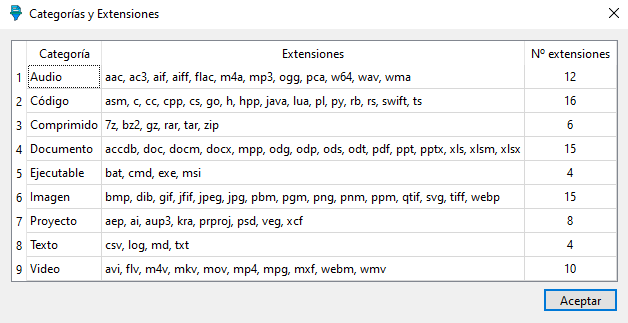
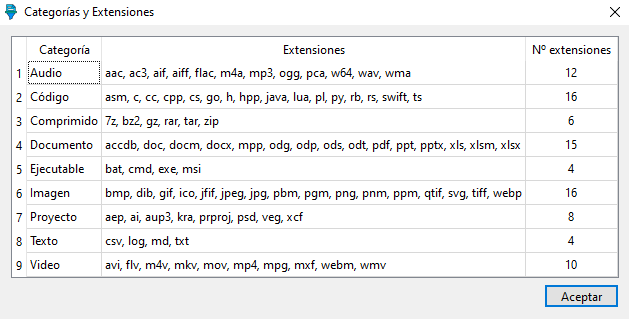
Añadida extensión .ico a extensiones predeterminadas

Changed region(s): [[0.0, 0.1129, 0.9984, 0.9875], [0.0, 0.0, 0.2723, 0.0564], [0.9682, 0.0282, 0.9984, 0.0564]]

diff --git a/Sources/extensionManager.cpp b/Sources/extensionManager.cpp
@@ -13,7 +13,7 @@ const QMap<QString, QSet<QString>> ExtensionManager::defaultCategoriasYExtension
     {"Comprimido", {"7z", "bz2", "gz", "rar", "tar", "zip"}},
     {"Documento",  {"accdb", "doc", "docm", "docx", "mpp", "odg", "odp", "ods", "odt", "pdf", "ppt", "pptx", "xls", "xlsm", "xlsx"}},
     {"Ejecutable", {"bat", "cmd", "exe", "msi"}},
-    {"Imagen",     {"bmp", "dib", "gif", "jfif", "jpeg", "jpg", "pbm", "pgm", "png", "pnm", "ppm", "qtif", "svg", "tiff", "webp"}},
+    {"Imagen",     {"bmp", "dib", "gif", "ico", "jfif", "jpeg", "jpg", "pbm", "pgm", "png", "pnm", "ppm", "qtif", "svg", "tiff", "webp"}},
     {"Proyecto",   {"ai", "aep", "aup3", "kra", "prproj", "psd", "veg", "xcf"}},
     {"Texto",      {"csv", "log", "md", "txt"}},
     {"Video",      {"avi", "flv", "m4v", "mkv", "mov", "mp4", "mpg", "mxf", "webm", "wmv"}}

diff --git a/README.md b/README.md
@@ -109,7 +109,7 @@ El programa cuenta por defecto con 7 categorías y 77 extensiones. En la siguien
 | **Comprimido** | 7z, bz2, gz, rar, tar, zip |
 | **Documento**  | accdb, doc, docm, docx, mpp, odg, odp, ods, odt, pdf, ppt, pptx, xls, xlsm, xlsx |
 | **Ejecutable** | bat, cmd, exe, msi |
-| **Imagen**     | bmp, dib, gif, jfif, jpeg, jpg, pbm, pgm, png, pnm, ppm, qtif, svg, tiff, webp |
+| **Imagen**     | bmp, dib, gif, ico, jfif, jpeg, jpg, pbm, pgm, png, pnm, ppm, qtif, svg, tiff, webp |
 | **Proyecto**   | ai, aep, aup3, kra, prproj, psd, veg, xcf |
 | **Texto**      | csv, log, md, txt |
 | **Video**      | avi, flv, m4v, mkv, mov, mp4, mpg, mxf, webm, wmv |
@@ -178,7 +178,6 @@ Estas opciones indican el **comportamiento predeterminado de las casillas** en l
 - [ ] Detección y tratamiento de ficheros duplicados.
 - [ ] Compresión de ficheros con quazip.
 - [ ] Port a Linux.
-- [ ] Crear un desinstalador (para eliminar archivos de configuración).
 
 ## Créditos
 Los iconos usados en el programa no son míos, fueron creados por otros autores y descargados desde [Flaticon](https://www.flaticon.com). En la siguiente tabla se acreditan a los creadores de cada icono. Los iconos marcados con un `*` fueron ligeramente modificados para la aplicación.
